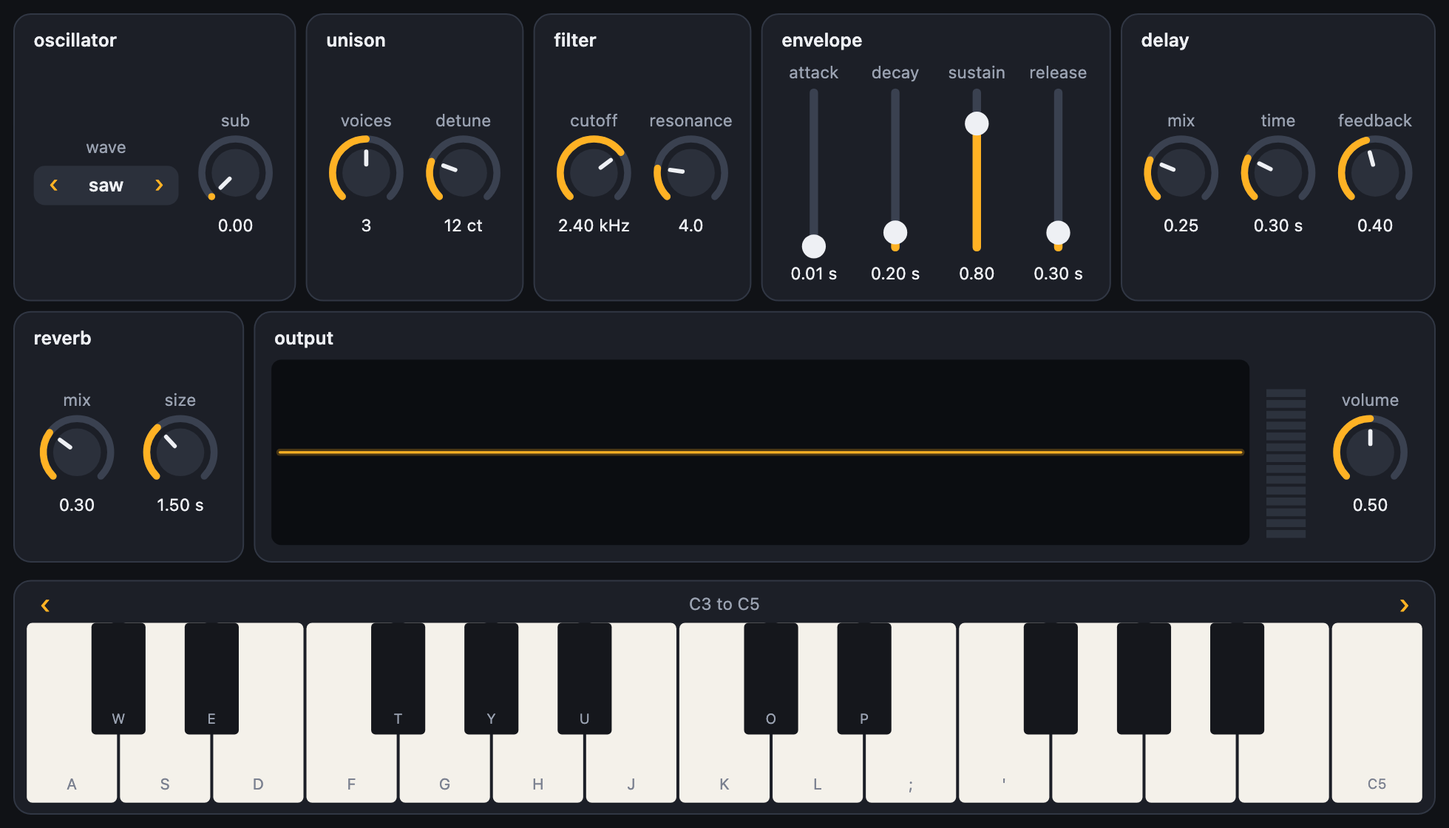
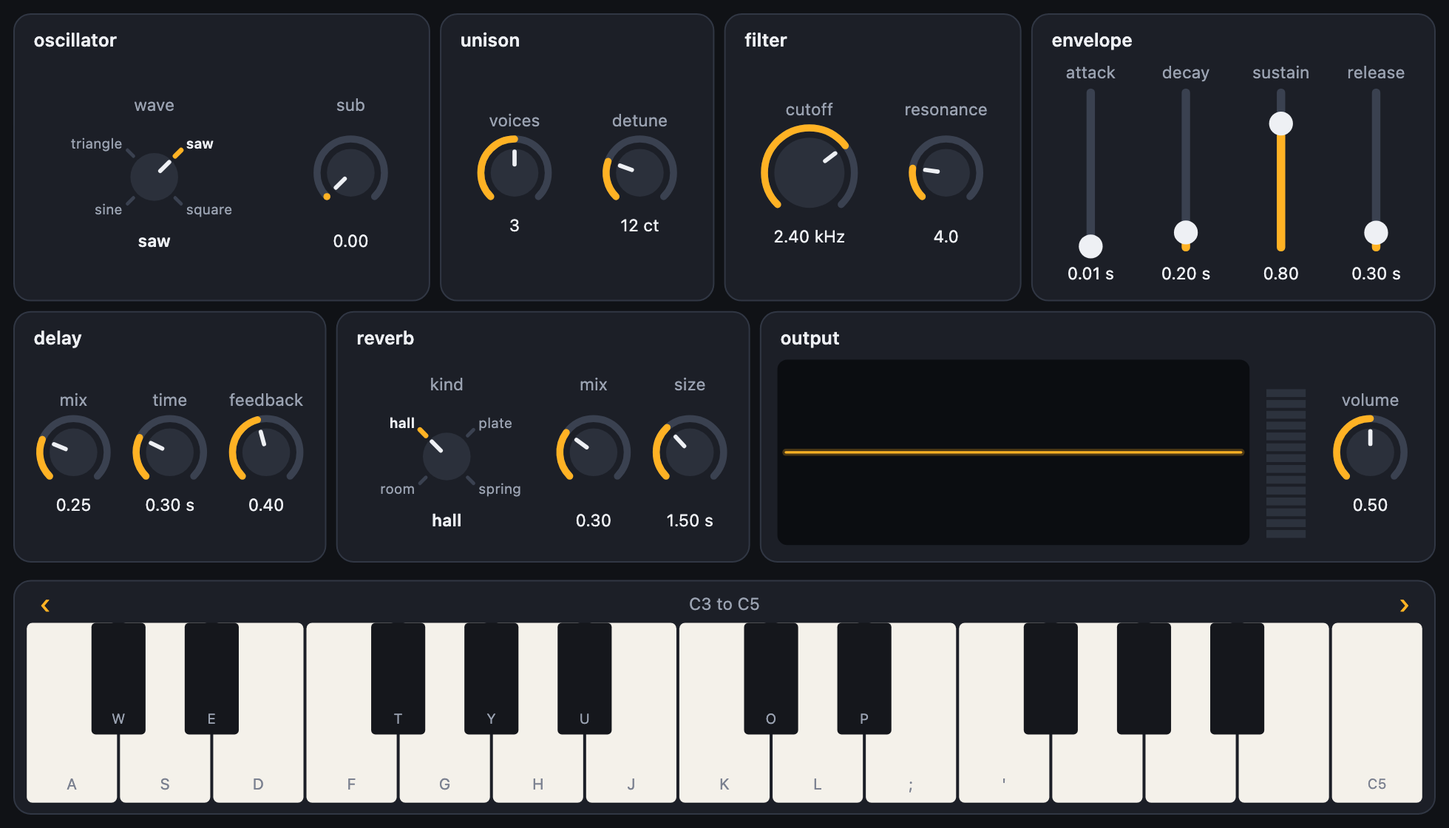
Docs: Size and fit (what a panel does by itself on a phone and a tablet, a scale, fitting the width at one scale with its floor, a panel of a set size, a phone's own arrangement in one line, a bigger knob kept at every scale) and Controlling wrapping (wrap, columns by width, a group or row that neve

diff --git a/dials.js b/dials.js
@@ -2084,9 +2084,22 @@ class Panel {
     const hold = options.wrap === false || (options.fit === 'width' && !set)
     let u = this.scale, squeeze = this.squeeze || 0
     if (!quick) {
+      // ONE SCALE FOR THE WHOLE PANEL. A line that may not wrap and is too wide makes everything smaller until it
+      // fits the width, so a knob is the same size on every line. Not below `minScale` (by default, the smallest
+      // a finger can work comfortably): there the lines are left too wide, and are moved from side to side.
+      const floor = options.minScale ?? (this.coarse ? FINGER_LEAST : MOUSE_LEAST)
+      const narrowed = (size, bar) => {
+        this.compose(size, bar ? (this.coarse ? 18 : 12) * size : 0)
+        for (let tries = 0; tries < 6 && this.over > 0.5 && size > Math.min(size, floor) + 1e-6; tries++) {
+          size = Math.max(Math.min(size, floor), size * this.roomWide / (this.roomWide + this.over) * 0.998)
+          this.compose(size, bar ? (this.coarse ? 18 : 12) * size : 0)
+        }
+        return size
+      }
       // Of the sizes at which all fits, the one that makes the fewest lines (a row stays a row if a little
       // smaller will keep it one), and of those the biggest. If none does, the same again with the keyboard
-      // and the scope above it less tall. Told not to wrap, there is nothing to choose: the usual size.
+      // and the scope above it less tall, and then with that scope put away. Told not to wrap, there is one
+      // size to try: the usual one, made as much smaller as the widest row needs.
       const sizes = []
       if (!hold) for (let step = 0; usual * (1 - 0.05 * step) > least + 1e-6; step++) sizes.push(usual * (1 - 0.05 * step))
       sizes.push(hold ? usual : least)
@@ -2094,7 +2107,8 @@ class Panel {
       for (squeeze of [0, 1, 2]) {
         this.squeeze = squeeze
         let fewest = Infinity
-        for (const size of sizes) {
+        for (let size of sizes) {
+          if (hold) size = narrowed(size, false)
           const got = this.compose(size, 0)
           if (got.fits && got.lines < fewest) { fewest = got.lines; u = size }
         }
@@ -2102,26 +2116,14 @@ class Panel {
       }
       if (!u) {
         // Nothing fits: the plates will be moved to be seen. The scope stays if that leaves room to see a plate and a half.
-        u = hold ? usual : Math.max(least, usual * 0.9)
         this.squeeze = squeeze = 1
+        u = hold ? narrowed(usual, true) : Math.max(least, usual * 0.9)
         this.compose(u, 0)
         if (this.seen < SEEN_LEAST) squeeze = 2
       }
-      // ONE SCALE FOR THE WHOLE PANEL. A line that may not wrap and is too wide makes everything smaller until it
-      // fits the width, so a knob is the same size on every line. Not below `minScale` (by default, the smallest
-      // a finger can work): there the lines are left too wide, and are moved from side to side.
       this.squeeze = squeeze
-      const floor = Math.min(u, options.minScale ?? (this.coarse ? FINGER_LEAST : MOUSE_LEAST))
-      // (Twice: once the plates have to be moved up and down, the bar beside them takes a little of the width.)
-      for (const barred of [false, true]) {
-        const bar = () => (barred ? (this.coarse ? 18 : 12) * u : 0)
-        if (barred && this.compose(u, 0).fits) break
-        this.compose(u, bar())
-        for (let tries = 0; tries < 6 && this.over > 0.5 && u > floor + 1e-6; tries++) {
-          u = Math.max(floor, u * this.roomWide / (this.roomWide + this.over) * 0.998)
-          this.compose(u, bar())
-        }
-      }
+      // A group told not to wrap, in a panel that otherwise may: the same one scale, found the same way.
+      u = narrowed(u, !this.compose(u, 0).fits)
     }
     this.scale = u
     this.squeeze = squeeze || 0

diff --git a/examples/dials.js b/examples/dials.js
@@ -2084,9 +2084,22 @@ class Panel {
     const hold = options.wrap === false || (options.fit === 'width' && !set)
     let u = this.scale, squeeze = this.squeeze || 0
     if (!quick) {
+      // ONE SCALE FOR THE WHOLE PANEL. A line that may not wrap and is too wide makes everything smaller until it
+      // fits the width, so a knob is the same size on every line. Not below `minScale` (by default, the smallest
+      // a finger can work comfortably): there the lines are left too wide, and are moved from side to side.
+      const floor = options.minScale ?? (this.coarse ? FINGER_LEAST : MOUSE_LEAST)
+      const narrowed = (size, bar) => {
+        this.compose(size, bar ? (this.coarse ? 18 : 12) * size : 0)
+        for (let tries = 0; tries < 6 && this.over > 0.5 && size > Math.min(size, floor) + 1e-6; tries++) {
+          size = Math.max(Math.min(size, floor), size * this.roomWide / (this.roomWide + this.over) * 0.998)
+          this.compose(size, bar ? (this.coarse ? 18 : 12) * size : 0)
+        }
+        return size
+      }
       // Of the sizes at which all fits, the one that makes the fewest lines (a row stays a row if a little
       // smaller will keep it one), and of those the biggest. If none does, the same again with the keyboard
-      // and the scope above it less tall. Told not to wrap, there is nothing to choose: the usual size.
+      // and the scope above it less tall, and then with that scope put away. Told not to wrap, there is one
+      // size to try: the usual one, made as much smaller as the widest row needs.
       const sizes = []
       if (!hold) for (let step = 0; usual * (1 - 0.05 * step) > least + 1e-6; step++) sizes.push(usual * (1 - 0.05 * step))
       sizes.push(hold ? usual : least)
@@ -2094,7 +2107,8 @@ class Panel {
       for (squeeze of [0, 1, 2]) {
         this.squeeze = squeeze
         let fewest = Infinity
-        for (const size of sizes) {
+        for (let size of sizes) {
+          if (hold) size = narrowed(size, false)
           const got = this.compose(size, 0)
           if (got.fits && got.lines < fewest) { fewest = got.lines; u = size }
         }
@@ -2102,26 +2116,14 @@ class Panel {
       }
       if (!u) {
         // Nothing fits: the plates will be moved to be seen. The scope stays if that leaves room to see a plate and a half.
-        u = hold ? usual : Math.max(least, usual * 0.9)
         this.squeeze = squeeze = 1
+        u = hold ? narrowed(usual, true) : Math.max(least, usual * 0.9)
         this.compose(u, 0)
         if (this.seen < SEEN_LEAST) squeeze = 2
       }
-      // ONE SCALE FOR THE WHOLE PANEL. A line that may not wrap and is too wide makes everything smaller until it
-      // fits the width, so a knob is the same size on every line. Not below `minScale` (by default, the smallest
-      // a finger can work): there the lines are left too wide, and are moved from side to side.
       this.squeeze = squeeze
-      const floor = Math.min(u, options.minScale ?? (this.coarse ? FINGER_LEAST : MOUSE_LEAST))
-      // (Twice: once the plates have to be moved up and down, the bar beside them takes a little of the width.)
-      for (const barred of [false, true]) {
-        const bar = () => (barred ? (this.coarse ? 18 : 12) * u : 0)
-        if (barred && this.compose(u, 0).fits) break
-        this.compose(u, bar())
-        for (let tries = 0; tries < 6 && this.over > 0.5 && u > floor + 1e-6; tries++) {
-          u = Math.max(floor, u * this.roomWide / (this.roomWide + this.over) * 0.998)
-          this.compose(u, bar())
-        }
-      }
+      // A group told not to wrap, in a panel that otherwise may: the same one scale, found the same way.
+      u = narrowed(u, !this.compose(u, 0).fits)
     }
     this.scale = u
     this.squeeze = squeeze || 0

diff --git a/README.md b/README.md
@@ -109,13 +109,16 @@ The scenes in `examples/` run from a copy of this repository with nothing else i
 - Tap twice to put a dial or slider back where it started.
 - Tap a slider's track and the handle comes to your finger; drag the handle to move it from where it is.
 - Each finger on the keyboard holds its own key, and sliding along plays each key in turn.
+- The arrows above the keys step an octave, again and again while one is held, and the keys slide there. A finger on the strip between the arrows drags the keys sideways; they settle on a whole octave. (Less movement, if your computer is set to ask for it: they jump.)
+- A rotary holds at each notch until you have gone most of the way to the next, then clicks over. Tap a name or a notch to go straight to it.
+- When there is more than fits, drag a plate's title, or the room between controls, to move the plates; a drag that starts on a dial still turns the dial.
 - On a touch screen the controls are made a little bigger, for fingers.
 
 ## Laying it out
 
-**There is nothing to do.** Controls line up in the order you make them, on a plate, with the keyboard along the bottom. On a narrow screen the line wraps evenly (six dials are three and three, never five and one), on a touch screen everything is a little bigger, and when the picture changes size it is all laid out again. Controls are drawn a little smaller before a line has to wrap, but never tiny: when there is more than fits, the plates can be moved with a finger, the mouse wheel or the bar beside them, while the keyboard and the scope above it stay where they are.
+**There is nothing to do.** Controls line up in the order you make them, on a plate, with the keyboard along the bottom. On a narrow screen the line wraps evenly (six dials are three and three, never five and one), on a touch screen everything is a little bigger, and when the picture changes size it is all laid out again. Controls are drawn a little smaller before a line has to wrap, but never tiny: when there is more than fits, the plates can be moved with a finger, the mouse wheel or the bar beside them, while the keyboard and the scope above it stay where they are. On a phone on its side, where there is very little height, the scope is put away and the keyboard keeps to its share.
 
-**A label is a heading.** A `label` made just before some controls is the title of their plate, and they are kept together: a plate moves to the next line whole, never leaving its heading behind. `row()` starts a new line of plates. This is a whole synth panel, and it needs nothing else:
+**A label is a heading.** A `label` made just before some controls is the title of their plate, and they are kept together: a plate moves to the next line whole, never leaving its heading behind. Plates with titles fill the width: they stand side by side, as many to a line as fit, every line reaching both edges, and `row()` says where a line should end when one has to. This is a whole synth panel, and it needs nothing else:
 
 ```js
 label("oscillator")
@@ -142,7 +145,7 @@ group("filter", () => {
 })
 ```
 
-Or in a straight line, with no brackets to match: `group("filter")` and then its controls, until the next `group`, `row()` or `page`. The plates of a line share its width and are as tall as each other, and every line is as wide as the widest, so the panel looks made rather than poured. `examples/front_panel.js` is a whole synth in seven groups:
+Or in a straight line, with no brackets to match: `group("filter")` and then its controls, until the next `group`, `row()` or `page`. The plates of a line share its width and are as tall as each other, and every line is as wide as the others, so the panel looks made rather than poured. `examples/front_panel.js` is a whole synth in seven groups:
 
 ![The front panel example: oscillator, unison, filter, envelope, delay, reverb and output plates above a keyboard](docs/images/front-panel.png)
 
@@ -154,7 +157,7 @@ Or in a straight line, with no brackets to match: `group("filter")` and then its
 | `column(() => { … })` | One under another. |
 | `grid(3, () => { … })` | Three to a line, in columns that line up; fewer where three will not fit. `{ span: 2 }` on a control covers two columns. |
 | `spacer()` | All the room that is left over, so what follows is pushed to the far end. `spacer(20)` is 20 points. |
-| `{ size: "small" }`, `"large"` | On any control. A dial, slider and meter also take a number. |
+| `{ size: "small" }`, `"large"`, `1.5` | On any control: smaller, larger, or so many times the usual size. A dial, slider and meter also take a size in points (a number over 4). |
 | `{ share: 1 }` | On a control or a group: it takes the room its line has left over. Two things with shares of 2 and 1 split the line two to one. |
 
 A group takes `colour` (for its title and every control in it), `columns: 3` (a grid), `gap`, `align` (`"start"`, `"center"`, `"end"`; left out, its controls are spread along the line), `dividers: true` (a line between the groups inside it) and `plate: false`.
@@ -169,6 +172,94 @@ group("filter", { colour: "deepskyblue" }, () => {
   })
 })
 ```
+
+### Size and fit
+
+**By itself**, a panel fits whatever it is on. On a phone held upright its plates are one to a line and are moved up and down with a finger, under a keyboard that stays put. In a tablet's split view they are two to a line, and across a whole tablet three or four, each line reaching both edges. On a touch screen everything is a little bigger, and nothing is ever drawn too small for a finger. Three lines change that: `layout({ scale: 1.3 })`, `layout({ wrap: false })` and `layout({ size: [900, 640] })`.
+
+**Bigger or smaller.** `layout({ scale: 1.3 })` draws everything that much bigger, and it works with everything below.
+
+**Fit the width.** `layout({ wrap: false })` keeps every row exactly as you wrote it (each `row()` is one row, whatever the screen) and draws the whole panel smaller until the widest row fits the width. There is one scale for the whole panel, set by that widest row, so a knob is the same size on every row.
+
+```js
+layout({ wrap: false })
+label("oscillator"); select("wave", lead, "wave"); dial("width", lead, "width"); dial("pwm", lead, "pwm"); dial("sub", lead, "sub")
+row()
+label("unison"); dial("voices", lead, "voices"); dial("detune", lead, "detune"); dial("spread", lead, "spread")
+label("filter"); select("filter", lead, "filter"); dial("cutoff", lead, "cutoff"); dial("resonance", lead, "resonance")
+row()
+label("shape"); slider("attack", lead, "attack"); slider("decay", lead, "decay"); slider("sustain", lead, "sustain"); slider("release", lead, "release")
+row()
+label("delay"); dial("delay", lead, "echo"); dial("time", lead, "delay_time"); dial("feedback", lead, "delay_feedback")
+label("reverb"); dial("reverb", lead, "reverb"); dial("size", lead, "reverb_size")
+scope(lead)
+keyboard(lead)
+```
+
+Under a finger the panel is not drawn smaller than eight tenths of its size, which is as small as is comfortable to touch (with a mouse, half). If the rows are still too wide they are left that size and moved from side to side. You choose the floor: `layout({ wrap: false, minScale: 1 })` never shrinks at all, and `minScale: 0` shrinks as far as it takes.
+
+**A panel of a set size.** `layout({ size: [900, 640] })` lays the panel out once, as if every screen were 900 by 640, and then makes the whole of it bigger or smaller to fit the screen it is on, keeping its shape and standing in the middle. Nothing moves about from one screen to the next: only the size changes. A width alone, `layout({ size: 900 })` (or `fit: "width"` beside a size), fills the width instead, and what does not fit is moved up and down. `x` and `y` are measured in the same size.
+
+![One panel on a phone three ways: by itself, one plate to a line; with wrap false, its rows as written and smaller; and at a set size, the whole panel made to fit](docs/images/fit-phone.png)
+
+A panel made for a tablet is small on a phone. One more line gives the phone its own:
+
+```js
+layout(layout().width < 600 ? { wrap: false } : { size: [900, 640] })
+```
+
+**A bigger knob is your choice, and it is kept.** `{ size: "large" }`, `"small"`, or a number of times the usual size (`{ size: 1.5 }`) on any control makes it that much bigger than its neighbours on every screen and at every scale. Its label and its value still line up with theirs.
+
+```js
+layout({ wrap: false })
+group("filter", () => {
+  rotary("kind", lead, "filter")
+  dial("cutoff", lead, "cutoff", { size: "large" })
+  dial("resonance", lead, "resonance")
+  dial("drive", lead, "drive", { size: "small" })
+})
+group("mix", () => {
+  dial("volume", lead, "volume", { size: 1.5 })
+  dial("pan", lead, "pan")
+})
+```
+
+![A filter plate with a large cutoff knob among usual and small ones, and a mix plate with a big volume knob, all their labels on one line](docs/images/fit-big-knob.png)
+
+### Controlling wrapping
+
+Say nothing and the panel decides. Say something and it does as it is told.
+
+| | |
+|---|---|
+| `layout({ wrap: false })` | Never wrap. Every row is the row you wrote, drawn smaller to fit the width (see above). |
+| `layout({ wrap: true })` | Every `row()` starts a new line, and a row is split only when it does not fit. |
+| `layout({ columns: 3 })` | Three plates to a line, always. |
+| `layout({ columns: { phone: 1, tablet: 2, wide: 3 } })` | How many at each width. `phone` is any width, `tablet` 600 points and up, `wide` 900 and up; a number is a width of your own: `{ 0: 1, 700: 3 }`. |
+| `group("shape", { wrap: false }, …)` | This group's controls stay on one line, whatever the width. |
+| `row({ wrap: false }, () => { group(…); group(…) })` | The two groups stay side by side. |
+| `row()` | A new line starts here. Inside a group too. |
+| `wrap()` | If this line has to be split, split it here. Nothing happens while it fits. |
+
+When a row that may not wrap is too wide, the whole panel is drawn smaller, not that row alone: one scale, as above. Left to itself, a panel treats a `row()` between two plates with titles as the place to end a line when a line must end, and puts as many plates on a line as fit.
+
+```js
+layout({ columns: { phone: 1, tablet: 2, wide: 3 } })
+```
+
+![The same panel with three plates to a line on a wide screen](docs/images/fit-columns.png)
+
+```js
+group("shape", () => {
+  slider("attack", lead, "attack"); slider("decay", lead, "decay")
+  wrap()                                  // split here, if it must be split: never between sustain and release
+  row({ wrap: false }, () => { slider("sustain", lead, "sustain"); slider("release", lead, "release") })
+})
+```
+
+**Arranging it yourself.** `layout()` gives back what the layout came to: `layout().width`, `.height` and `.scale`. `layout({ onResize: (now) => { … } })` is called when the picture changes size, with the same three, so a scene can take everything away and make another arrangement.
+
+### Pages, edges and exact places
 
 **Pages.** When there is too much for one screen, give it pages. Each has a tab; the keyboard, and what is made before the first page and after the last, stay on every page.
 
@@ -200,10 +291,10 @@ function draw() {
 
 ![A strip of controls down the left, a strip of buttons along the bottom, and the scene drawn in the rectangle between them](docs/images/layout-strips.png)
 
-**Exactly where you say.** `{ x, y }` on a control or a group places its top left corner, and `control.place(x, y)` moves it. With `layout({ design: [800, 480] })` those numbers are in a panel 800 by 480 that is scaled to fit the picture, so a front panel drawn once is right on every screen:
+**Exactly where you say.** `{ x, y }` on a control or a group places its top left corner, and `control.place(x, y)` moves it. With `layout({ size: [800, 480] })` those numbers are in a panel 800 by 480 that is scaled to fit the picture, so a front panel drawn once is right on every screen:
 
 ```js
-layout({ design: [800, 480], image: "panel.png" })      // a picture behind the controls
+layout({ size: [800, 480], image: "panel.png" })        // a picture behind the controls
 dial("cutoff", lead, "cutoff", { x: 360, y: 30, size: "large" })
 group("osc", { x: 20, y: 20, width: 300 }, () => { select("wave", lead, "wave"); dial("sub", lead, "sub") })
 keyboard(lead, { x: 20, y: 340, width: 760, height: 120 })
@@ -222,13 +313,14 @@ Every control takes a last `{ … }` of options. All of them take `x` and `y` (t
 | `slider(…)` | The same as a dial, as a slider. `{ vertical: true }` stands it upright. |
 | `button(label, onPress)` | A button. `fire.pressed` is true once for each press; `fire.held` while it is down. |
 | `toggle(label, on)` | A switch. `mute.on` is true or false. `toggle(label, target, "setting")` ties it to a setting. |
+| `rotary(label, choices, start)` | A knob that clicks between a few choices, with a notch for each and their names round it where there is room (a larger one shows more of each; with more than eight, only the one it is on). Drag to turn it from notch to notch, or tap a name. `mode.value`, `mode.index`, and `rotary(label, target, "setting")`, as a select. `select(…, { style: "rotary" })` is the same. |
 | `select(label, choices, start)` | One of a list, stepped through with the arrows at its sides. `wave.value` is the choice, `wave.index` its place. `select(label, target, "setting")` takes the choices from the target. |
-| `keyboard(target, { octave, octaves })` | A piano keyboard along the bottom. `piano.notes` is what is held now (60 is middle C). Options: `keys: false` (no computer keys), `hints: false` (no letters on the keys), `onNoteOn(note, velocity)`, `onNoteOff(note)`. |
+| `keyboard(target, { octave, octaves })` | A piano keyboard along the bottom. `piano.notes` is what is held now (60 is middle C). Options: `keys: false` (no computer keys), `hints: false` (no letters on the keys), `animate: false` (the keys jump to a new octave, not slide), `onNoteOn(note, velocity)`, `onNoteOff(note)`. It never shows so many octaves that a key is too narrow to play. |
 | `scope(source)` | A line of numbers, live: a target with `samples()`, a function that returns a list, or a list. With no source, `graph.push(value)` adds a point. Options: `min`, `max`, `width`, `height`, `points`. |
 | `meter(source)` | A level from 0 to 1 as a bar of lights: a target with `level()`, a function, or `level.value = 0.7`. `[left, right]` makes two bars. |
 | `label(text)` | Words. Made just before some controls, it is their heading. |
-| `group`, `row`, `column`, `grid`, `page`, `spacer` | What goes with what: see [Laying it out](#laying-it-out). |
-| `layout({ at: "bottom" })` | Where the plates go (`"top"`, `"bottom"`, `"left"`, `"right"`), `scale`, `margin`, `compact`, `dividers`, `plates`, `align`, `backdrop` (true, false or a colour), `image` and `design`. |
+| `group`, `row`, `column`, `grid`, `page`, `spacer`, `wrap` | What goes with what: see [Laying it out](#laying-it-out). |
+| `layout({ at: "bottom" })` | Where the plates go (`"top"`, `"bottom"`, `"left"`, `"right"`), `scale`, `wrap`, `minScale`, `columns`, `size`, `margin`, `compact`, `dividers`, `plates`, `align`, `backdrop` (true, false or a colour), `image` and `onResize`. It gives back `{ width, height, scale }`. |
 | `room()` | The rectangle no control is on: `{ x, y, width, height }`. |
 | `theme({ accent: "deepskyblue" })` | The colours. |
 | `over(x, y)` | Is a control (or a tab, or the bar beside plates that can be moved) at this point? A game asks before it treats a click as its own. |
@@ -262,7 +354,7 @@ A host that keeps the scene's code somewhere else (pydials does) makes controls 
 PLAYWRIGHT=/path/to/node_modules/playwright node scripts/test-dials.mjs
 ```
 
-Real browsers (Chromium, and WebKit when Playwright has it) on pictures.js scenes: the controls are turned, pressed and played with a real mouse, the keyboard and several fingers, and every example is run. Then the layout is measured at four sizes of screen (a phone, a tablet's split view, a tablet on its side, a desktop window): nothing overlaps or leaves the picture, a heading is on the same plate as its controls and above them, wrapped lines are balanced, a finger's target is never under 44 points, what does not fit is moved rather than shrunk, and a dial on plates that were moved or on a page that was turned to still keeps to the finger. No sound is made. pictures.js is taken from the folder beside this one.
+Real browsers (Chromium, and WebKit when Playwright has it) on pictures.js scenes: the controls are turned, pressed and played with a real mouse, the keyboard and several fingers, and every example is run. Then the layout is measured at seven sizes of screen (a small phone, a phone upright and on its side, a tablet's split view, a tablet on its side and upright, a desktop window): nothing overlaps or leaves the picture, a heading is on the same plate as its controls and above them, wrapped lines are balanced, a finger's target is never under 44 points, what does not fit is moved rather than shrunk, and a dial on plates that were moved or on a page that was turned to still keeps to the finger; and that rows told not to wrap never do, at one scale, that `columns` and `wrap()` are kept to, and that a panel of a set size is the same on every screen. No sound is made. pictures.js is taken from the folder beside this one.
 
 ## Licence
 

diff --git a/CHANGELOG.md b/CHANGELOG.md
@@ -2,6 +2,13 @@
 
 ## Unreleased
 
+- `rotary("mode", ["room", "hall", "plate", "spring"], "hall")`, or `rotary("wave", lead, "wave")`: a knob that clicks between a few choices, with a notch for each and their names round it where there is room. It holds at a notch and clicks over, goes to a tapped name or notch, and two taps put it back. `select(…, { style: "rotary" })` is the same.
+- The piano keys slide to a new octave (the arrows, Z and X, an arrow held down, or a finger dragging the strip above the keys, which settles on a whole octave). A key pressed part way plays the note under the finger. They jump for reduced motion, or with `{ animate: false }`. A keyboard never shows so many octaves that a key is too narrow to play, and its arrows are bigger under a finger.
+- Wrapping is yours to say: `layout({ wrap: false })` keeps every row as written and draws the whole panel at one scale that fits the widest to the width (not below `minScale`: by default eight tenths under a finger and half with a mouse, where rows are moved from side to side instead); `layout({ wrap: true })` makes every `row()` a new line; `layout({ columns: 3 })`, or `{ phone: 1, tablet: 2, wide: 3 }`, says how many plates to a line; `group("shape", { wrap: false }, …)` never splits; `row({ wrap: false }, …)` keeps the groups in it side by side; `wrap()` marks where a line may be split.
+- `layout({ size: [900, 640] })`: a panel of a set size, laid out once and made to fit any screen whole, keeping its shape (`size: 900`, or `fit: "width"`, fills the width). It is what `design` was, and `design` still works.
+- A size may be so many times the usual (`{ size: 1.5 }`), and is kept at every scale; dials of different sizes on a line have their labels and values on the same lines.
+- `layout()` gives back `{ width, height, scale }`, and `layout({ onResize })` is called when they change.
+- On a phone on its side the scope above the keyboard is put away and the keyboard keeps to its share of the height; a strip down one side folds into two columns when it is too tall; the screen's safe edges (a notch, a home bar) are kept clear.
 - Layout. Controls are kept on titled plates: a `label` made just before some controls is their heading, and `group("filter", () => { … })` (or `group("filter")` and then the controls) says so with options. Plates wrap whole, so a heading is never left behind; wrapped lines are balanced; the plates of a line share its width and every line is as wide as the widest. Scenes written with `label` and `row()` alone are laid out this way with no change.
 - Plates with titles fill the width: they stand side by side in balanced lines set against both edges of the picture, as many to a line as fit (one on a phone, two in a tablet's split view, three or four across a tablet), and a `row()` between them says where a line should end when one has to. A few controls with no titles keep their own width and their rows as written. On a scene that draws nothing of its own, the scope above the keyboard takes spare height, so there is no dead room between them.
 - `row`, `column` and `grid(3, …)` arrange what is inside a group, and nest. `spacer()` takes the room left over. Any control takes `size: "small"` or `"large"`, `share` (its part of the room its line has left) and `span` (columns of a grid). A group takes `colour`, `columns`, `gap`, `align`, `dividers` and `plate`.
